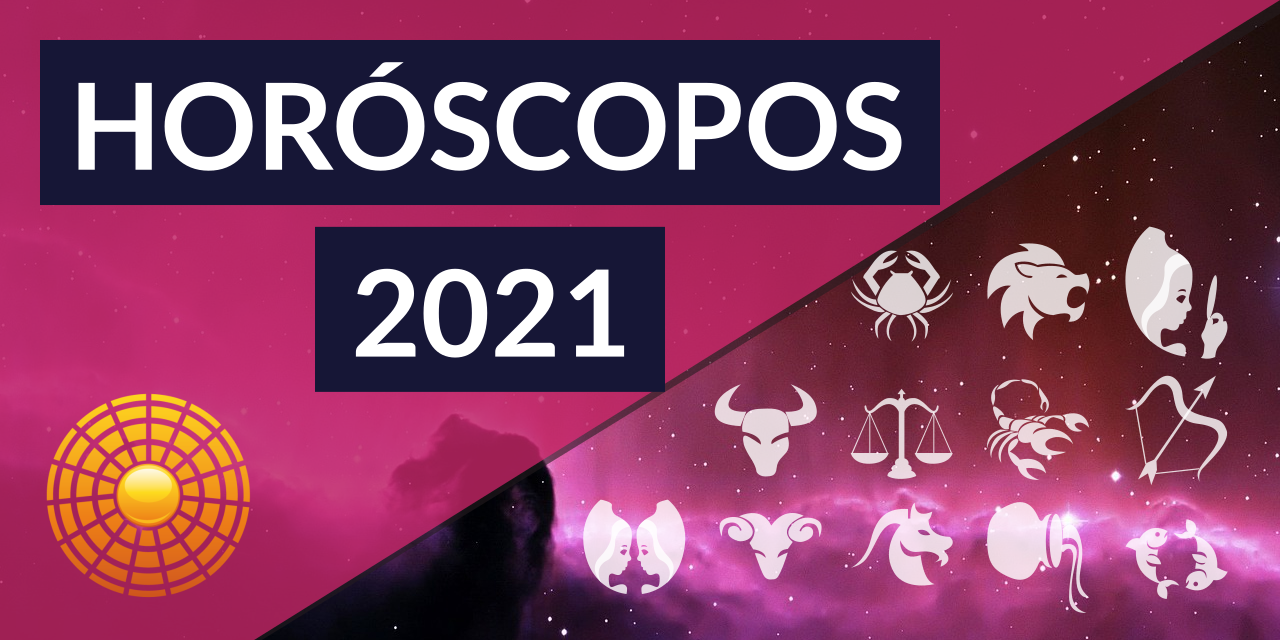
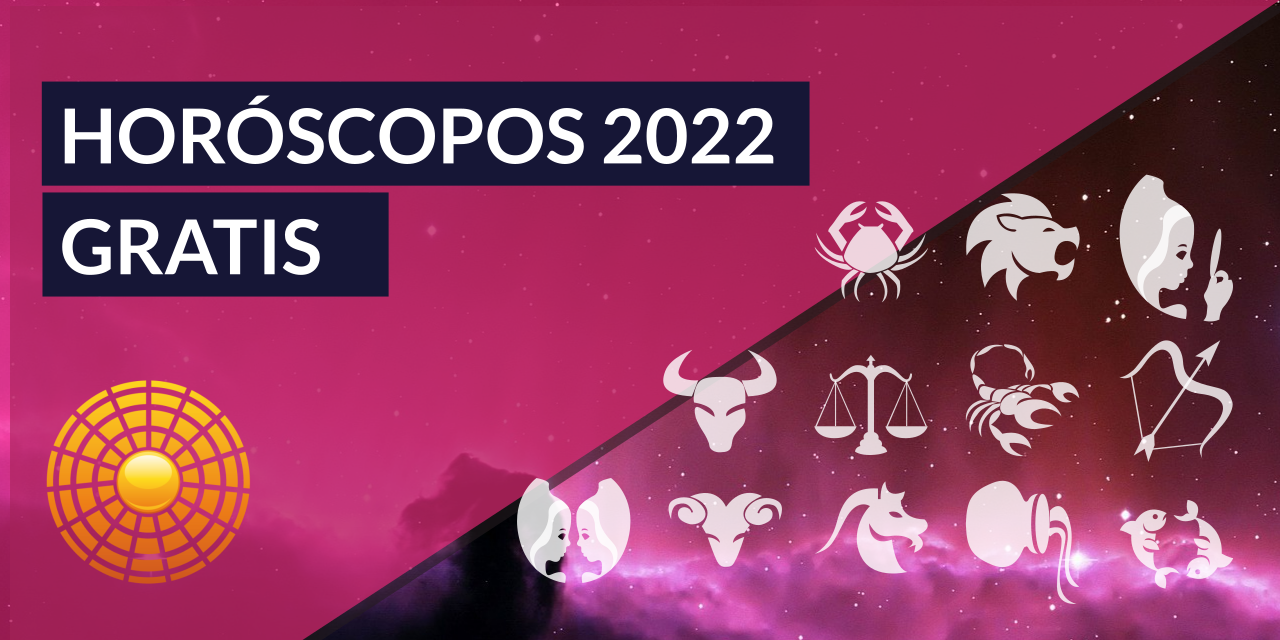
Fix ims social anual

diff --git a/_posts/2017-12-17-anual.md b/_posts/2017-12-17-anual.md
@@ -6,7 +6,7 @@ permalink: /horoscopo-anual/
 amplink: /horoscopo-anual/amp/
 home: FALSE
 keywords: horóscopo año nuevo, horóscopo 2022, horóscopo, horoscopos diarios gratis del dia de hoy, horóscopo diario gratis,horóscopo ano nuevo 2022, horóscopo esperanza gracia, horoscopo 2022, horoscop, horóscopos gratis, horoscopo , horoscopo 2022 gratis, aries, cancer, libra, virgo, capricornio, leo, sagitario, escorpio, piscis, acuario, geminis, tauro, Tarot, Astrologia, Zodíaco, , horoscopo gratis,tarot en femenino,videncia gratuita,horoscopos gratuitos,horóscopos, astrologia,videncia gratis
-ogimg: /images/anual.png
+ogimg: /images/anual.png#2021-12-26
 facebook:
  instant_article: 'yes'
 video: b17c-xs7seI

diff --git a/anual/capricornio-anual.md b/anual/capricornio-anual.md
@@ -6,7 +6,7 @@ permalink: /horoscopo-anual/capricornio/
 amplink: /horoscopo-anual/amp/capricornio/
 home: FALSE
 keywords: horóscopo año nuevo, horóscopo 2022, horóscopo, horoscopos diarios gratis del dia de hoy, horóscopo diario gratis,horóscopo ano nuevo 2022, horóscopo esperanza gracia, horoscopo Capricornio 2022, horoscop, horóscopos gratis, horoscopo Capricornio, horoscopo Capricornio 2022 gratis, Tarot, Astrologia, Zodíaco, Capricornio, horoscopo gratis,tarot en femenino,videncia gratuita,horoscopos gratuitos,horóscopos, astrologia,videncia gratis
-ogimg: /images/capricornio_anual.png
+ogimg: /images/capricornio_anual.png#2021-12-26
 horoscopo:
  signo: capricornio
 sitemap:

diff --git a/anual/sagitario-anual.md b/anual/sagitario-anual.md
@@ -6,7 +6,7 @@ permalink: /horoscopo-anual/sagitario/
 amplink: /horoscopo-anual/amp/sagitario/
 home: FALSE
 keywords: horóscopo año nuevo, horóscopo 2022, horóscopo, horoscopos diarios gratis del dia de hoy, horóscopo diario gratis,horóscopo ano nuevo 2022, horóscopo esperanza gracia, horoscopo Sagitario 2022, horoscop, horóscopos gratis, horoscopo Sagitario, horoscopo Sagitario 2022 gratis, Tarot, Astrologia, Zodíaco, Sagitario, horoscopo gratis,tarot en femenino,videncia gratuita,horoscopos gratuitos,horóscopos, astrologia,videncia gratis
-ogimg: /images/sagitario_anual.png
+ogimg: /images/sagitario_anual.png#2021-12-26
 horoscopo:
  signo: sagitario
 sitemap:

diff --git a/anual/escorpio-anual.md b/anual/escorpio-anual.md
@@ -6,7 +6,7 @@ permalink: /horoscopo-anual/escorpio/
 amplink: /horoscopo-anual/amp/escorpio/
 home: FALSE
 keywords: horóscopo año nuevo, horóscopo 2022, horóscopo, horoscopos diarios gratis del dia de hoy, horóscopo diario gratis,horóscopo ano nuevo 2022, horóscopo esperanza gracia, horoscopo Escorpio 2022, horoscop, horóscopos gratis, horoscopo Escorpio, horoscopo Escorpio 2022 gratis, Tarot, Astrologia, Zodíaco, Escorpio, horoscopo gratis,tarot en femenino,videncia gratuita,horoscopos gratuitos,horóscopos, astrologia,videncia gratis
-ogimg: /images/escorpio_anual.png
+ogimg: /images/escorpio_anual.png#2021-12-26
 horoscopo:
  signo: escorpio
 sitemap:

diff --git a/anual/geminis-anual.md b/anual/geminis-anual.md
@@ -6,7 +6,7 @@ permalink: /horoscopo-anual/geminis/
 amplink: /horoscopo-anual/amp/geminis/
 home: FALSE
 keywords: horóscopo año nuevo, horóscopo 2022, horóscopo, horoscopos diarios gratis del dia de hoy, horóscopo diario gratis,horóscopo ano nuevo 2022, horóscopo esperanza gracia, horoscopo Géminis 2022, horoscop, horóscopos gratis, horoscopo Géminis, horoscopo Géminis 2022 gratis, Tarot, Astrologia, Zodíaco, Géminis, horoscopo gratis,tarot en femenino,videncia gratuita,horoscopos gratuitos,horóscopos, astrologia,videncia gratis
-ogimg: /images/geminis_anual.png
+ogimg: /images/geminis_anual.png#2021-12-26
 horoscopo:
  signo: geminis
 sitemap:

diff --git a/anual/acuario-anual.md b/anual/acuario-anual.md
@@ -6,7 +6,7 @@ permalink: /horoscopo-anual/acuario/
 amplink: /horoscopo-anual/amp/acuario/
 home: FALSE
 keywords: horóscopo año nuevo, horóscopo 2022, horóscopo, horoscopos diarios gratis del dia de hoy, horóscopo diario gratis,horóscopo ano nuevo 2022, horóscopo esperanza gracia, horoscopo Acuario 2022, horoscop, horóscopos gratis, horoscopo Acuario, horoscopo Acuario 2022 gratis, Tarot, Astrologia, Zodíaco, Acuario, horoscopo gratis,tarot en femenino,videncia gratuita,horoscopos gratuitos,horóscopos, astrologia,videncia gratis
-ogimg: /images/acuario_anual.png
+ogimg: /images/acuario_anual.png#2021-12-26
 horoscopo:
  signo: acuario
 sitemap:

diff --git a/anual/cancer-anual.md b/anual/cancer-anual.md
@@ -6,7 +6,7 @@ permalink: /horoscopo-anual/cancer/
 amplink: /horoscopo-anual/amp/cancer/
 home: FALSE
 keywords: horóscopo año nuevo, horóscopo 2022, horóscopo, horoscopos diarios gratis del dia de hoy, horóscopo diario gratis,horóscopo ano nuevo 2022, horóscopo esperanza gracia, horoscopo Cáncer 2022, horoscop, horóscopos gratis, horoscopo Cáncer, horoscopo Cáncer 2022 gratis, Tarot, Astrologia, Zodíaco, Cáncer, horoscopo gratis,tarot en femenino,videncia gratuita,horoscopos gratuitos,horóscopos, astrologia,videncia gratis
-ogimg: /images/cancer_anual.png
+ogimg: /images/cancer_anual.png#2021-12-26
 horoscopo:
  signo: cancer
 sitemap:

diff --git a/anual/piscis-anual.md b/anual/piscis-anual.md
@@ -6,7 +6,7 @@ permalink: /horoscopo-anual/piscis/
 amplink: /horoscopo-anual/amp/piscis/
 home: FALSE
 keywords: horóscopo año nuevo, horóscopo 2022, horóscopo, horoscopos diarios gratis del dia de hoy, horóscopo diario gratis,horóscopo ano nuevo 2022, horóscopo esperanza gracia, horoscopo Piscis 2022, horoscop, horóscopos gratis, horoscopo Piscis, horoscopo Piscis 2022 gratis, Tarot, Astrologia, Zodíaco, Piscis, horoscopo gratis,tarot en femenino,videncia gratuita,horoscopos gratuitos,horóscopos, astrologia,videncia gratis
-ogimg: /images/piscis_anual.png
+ogimg: /images/piscis_anual.png#2021-12-26
 horoscopo:
  signo: piscis
 sitemap:

diff --git a/anual/aries-anual.md b/anual/aries-anual.md
@@ -6,7 +6,7 @@ permalink: /horoscopo-anual/aries/
 amplink: /horoscopo-anual/amp/aries/
 home: FALSE
 keywords: horóscopo año nuevo, horóscopo 2022, horóscopo, horoscopos diarios gratis del dia de hoy, horóscopo diario gratis,horóscopo ano nuevo 2022, horóscopo esperanza gracia, horoscopo Aries 2022, horoscop, horóscopos gratis, horoscopo Aries, horoscopo Aries 2022 gratis, Tarot, Astrologia, Zodíaco, Aries, horoscopo gratis,tarot en femenino,videncia gratuita,horoscopos gratuitos,horóscopos, astrologia,videncia gratis
-ogimg: /images/aries_anual.png
+ogimg: /images/aries_anual.png#2021-12-26
 horoscopo:
  signo: aries
 sitemap:

diff --git a/anual/libra-anual.md b/anual/libra-anual.md
@@ -6,7 +6,7 @@ permalink: /horoscopo-anual/libra/
 amplink: /horoscopo-anual/amp/libra/
 home: FALSE
 keywords: horóscopo año nuevo, horóscopo 2022, horóscopo, horoscopos diarios gratis del dia de hoy, horóscopo diario gratis,horóscopo ano nuevo 2022, horóscopo esperanza gracia, horoscopo Libra 2022, horoscop, horóscopos gratis, horoscopo Libra, horoscopo Libra 2022 gratis, Tarot, Astrologia, Zodíaco, Libra, horoscopo gratis,tarot en femenino,videncia gratuita,horoscopos gratuitos,horóscopos, astrologia,videncia gratis
-ogimg: /images/libra_anual.png
+ogimg: /images/libra_anual.png#2021-12-26
 horoscopo:
  signo: libra
 sitemap:

diff --git a/anual/tauro-anual.md b/anual/tauro-anual.md
@@ -6,7 +6,7 @@ permalink: /horoscopo-anual/tauro/
 amplink: /horoscopo-anual/amp/tauro/
 home: FALSE
 keywords: horóscopo año nuevo, horóscopo 2022, horóscopo, horoscopos diarios gratis del dia de hoy, horóscopo diario gratis,horóscopo ano nuevo 2022, horóscopo esperanza gracia, horoscopo Tauro 2022, horoscop, horóscopos gratis, horoscopo Tauro, horoscopo Tauro 2022 gratis, Tarot, Astrologia, Zodíaco, Tauro, horoscopo gratis,tarot en femenino,videncia gratuita,horoscopos gratuitos,horóscopos, astrologia,videncia gratis
-ogimg: /images/tauro_anual.png
+ogimg: /images/tauro_anual.png#2021-12-26
 horoscopo:
  signo: tauro
 sitemap:

diff --git a/anual/virgo-anual.md b/anual/virgo-anual.md
@@ -6,7 +6,7 @@ permalink: /horoscopo-anual/virgo/
 amplink: /horoscopo-anual/amp/virgo/
 home: FALSE
 keywords: horóscopo año nuevo, horóscopo 2022, horóscopo, horoscopos diarios gratis del dia de hoy, horóscopo diario gratis,horóscopo ano nuevo 2022, horóscopo esperanza gracia, horoscopo Virgo 2022, horoscop, horóscopos gratis, horoscopo Virgo, horoscopo Virgo 2022 gratis, Tarot, Astrologia, Zodíaco, Virgo, horoscopo gratis,tarot en femenino,videncia gratuita,horoscopos gratuitos,horóscopos, astrologia,videncia gratis
-ogimg: /images/virgo_anual.png
+ogimg: /images/virgo_anual.png#2021-12-26
 horoscopo:
  signo: virgo
 sitemap:
